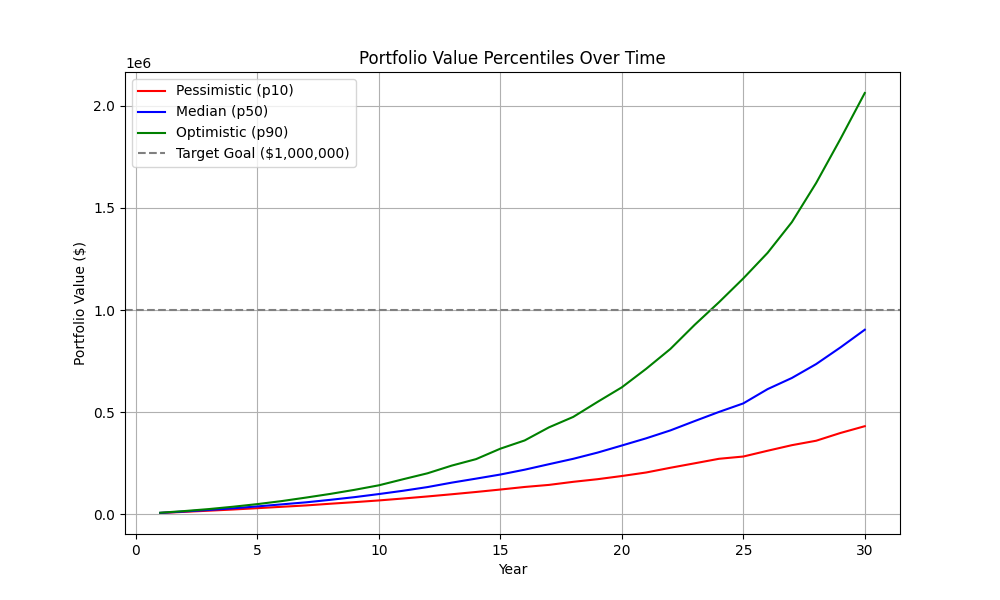
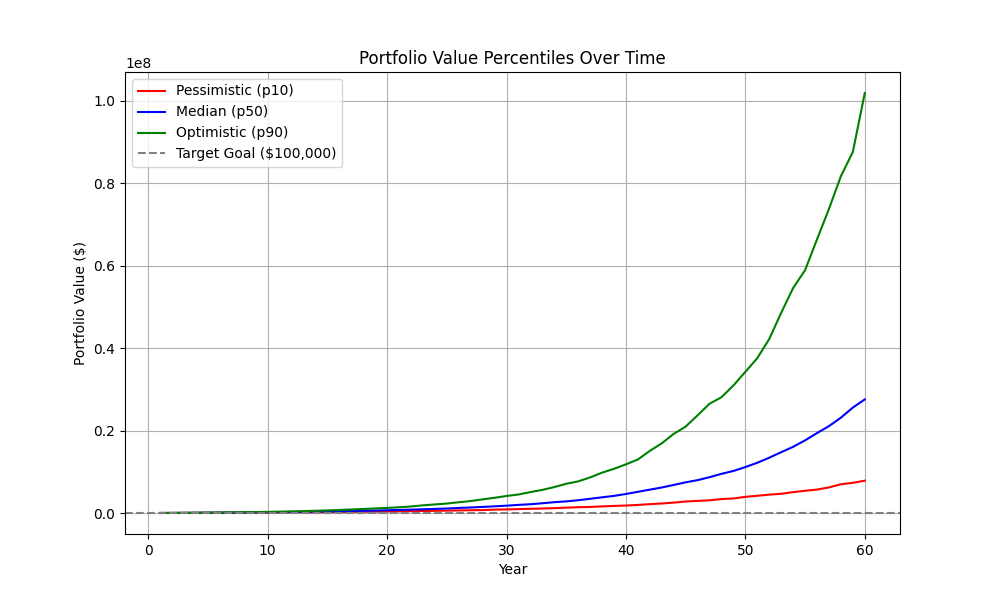
message

diff --git a/monthlyreturn.py b/monthlyreturn.py
@@ -60,7 +60,7 @@ def simulate_portfolio(initial_value, monthly_contribution, years):
 
 # Step 3
 def run_simulations(initial_value, monthly_contribution, years, num_simulations):
-    # Run portfolio simulation multiple times to see a range of possible outcomes
+    # Run portfolio simulation multigiple times to see a range of possible outcomes
     # Each run will produce a different path due to randomness,
     # so we can analyze the distribution of final values
     # Return list where each row is one simulation's yearly values
@@ -193,6 +193,9 @@ def demo():
     initial_value = float(input("Starting portfolio value: $"))
     monthly_contribution = float(input("Monthly contribution: $"))
     years = int(input("Number of years to simulate: "))
+    while years <= 0 or years > 60:
+        print("Please enter a number of years between 1 and 60.")
+        years = int(input("Number of years to simulate: "))
     target_goal = float(input("Target goal: $"))
 
     print(f"One portfolio simulation (${initial_value:,.0f} start, ${monthly_contribution:,.0f}/month, {years} years)")

diff --git a/README.md b/README.md
@@ -20,6 +20,11 @@ Built on Step 1 by adding simulate_portfolio, a function that takes a starting d
 Step 3: Running 1,000 Simulations
 
 Added run_simulations, a function that calls simulate_portfolio 1,000 times, each with different random returns, and collects results into a  list where each row is one simulation's yearly portfolio values. Tests confirm the grid has exactly 1,000 rows and each row has the correct number of yearly values. The demo prints the lowest and highest final portfolio values across all 1,000 simulations to show the full range of possible outcomes.
+Running 1,000 Simulations to capture market uncertainty and show range of possible results. Added run_simulations(), a function that calls simulate_portfolio 1,000 times, each with different random returns, and collects results into a  list where each row is one simulation's yearly portfolio values. Added a block to run_tests(). Tests confirm the grid has exactly 1,000 rows and each row has the correct number of yearly values (30). Added a block to def demo() that prints the lowest and highest final portfolio values across all 1,000 simulations to show the full range of possible outcomes.  
+
+Step 5: User input
+
+Added interactive user input and formatted output display to make the simulation practical. The program now prompts users to enter their own investment parameters (starting amount, monthly contribution, years, and target goal) and runs a complete Monte Carlo analysis based on their inputs.	
 
 Citations
 
